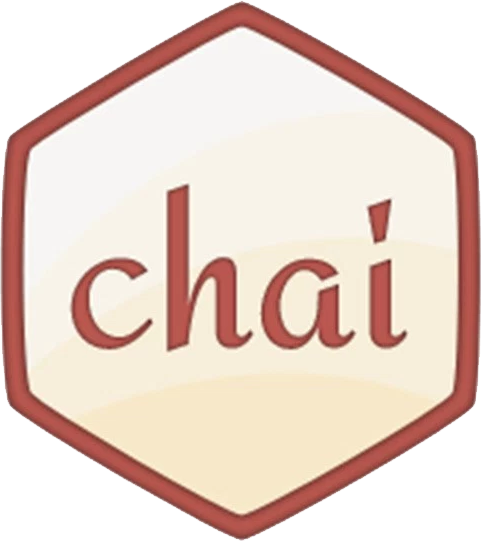
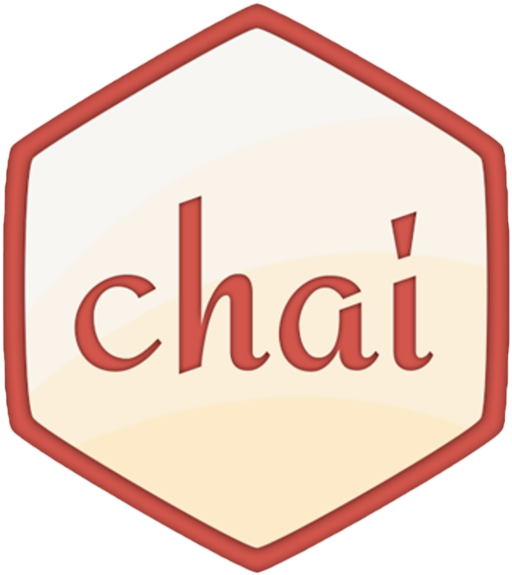
updated slides
added tdd cycle image
updated chai and mocha lgos

diff --git a/presentation/index.html b/presentation/index.html
@@ -54,6 +54,7 @@
       }
       img.img-unstyled {
         background: transparent !important;
+        box-shadow: none !important;
         border: none !important;
       }
     </style>
@@ -133,34 +134,34 @@
             <p>The TDD Cycle in 5 steps</p>
           </section>
 
-          <section>
+          <section data-background-image="./img/tdd-cycle-1.png" data-background-size="15%" data-background-position="90% 10%">
             <h2 class="orange">1. Add a test</h2>
             <p><strong>Write a test case</strong> to cover the requirements of our application. For the first iteration your test should be <strong>as small as possible</strong>.</p>
           </section>
 
-          <section>
+          <section data-background-image="./img/tdd-cycle-2.png" data-background-size="15%" data-background-position="90% 10%">
             <h2 class="red">2. Run the test</h2>
             <p>After defining our test we’re going to <strong>execute the test</strong> against the application. <strong>The test fails</strong> because the requirement isn’t implemented yet.</p>
           </section>
 
-          <section>
+          <section data-background-image="./img/tdd-cycle-3.png" data-background-size="15%" data-background-position="90% 10%">
             <h2 class="yellow">3. Write the code</h2>
             <p>To fix this it’s time to <strong>implement the least necessary code</strong> in our application. Don’t do too much! Only the really necessary parts should be implemented.</p>
           </section>
 
-          <section>
+          <section data-background-image="./img/tdd-cycle-4.png" data-background-size="15%" data-background-position="90% 10%">
             <h2 class="blue">4. Run the test again</h2>
             <p>If we run the previous defined test again <strong>the test should pass</strong>. Otherwise we have to go over the code again until it passes.</p>
           </section>
 
-          <section>
+          <section data-background-image="./img/tdd-cycle-5.png" data-background-size="15%" data-background-position="90% 10%">
             <h2 class="green">5. Refactor the code</h2>
             <p>When the test passes we should <strong>do some code refactoring</strong> to keep our code clean and slim.</p>
           </section>
 
-          <section>
+          <section data-background-image="./img/tdd-cycle.png" data-background-size="contain">
             <h2>Repeat</h2>
-            <p><strong>Repeat step 1 to 5</strong> until all requirements are met.</p>
+            <p><strong>Repeat step 1 to 5</strong><br> until all requirements are met.</p>
           </section>
 
         </section>
